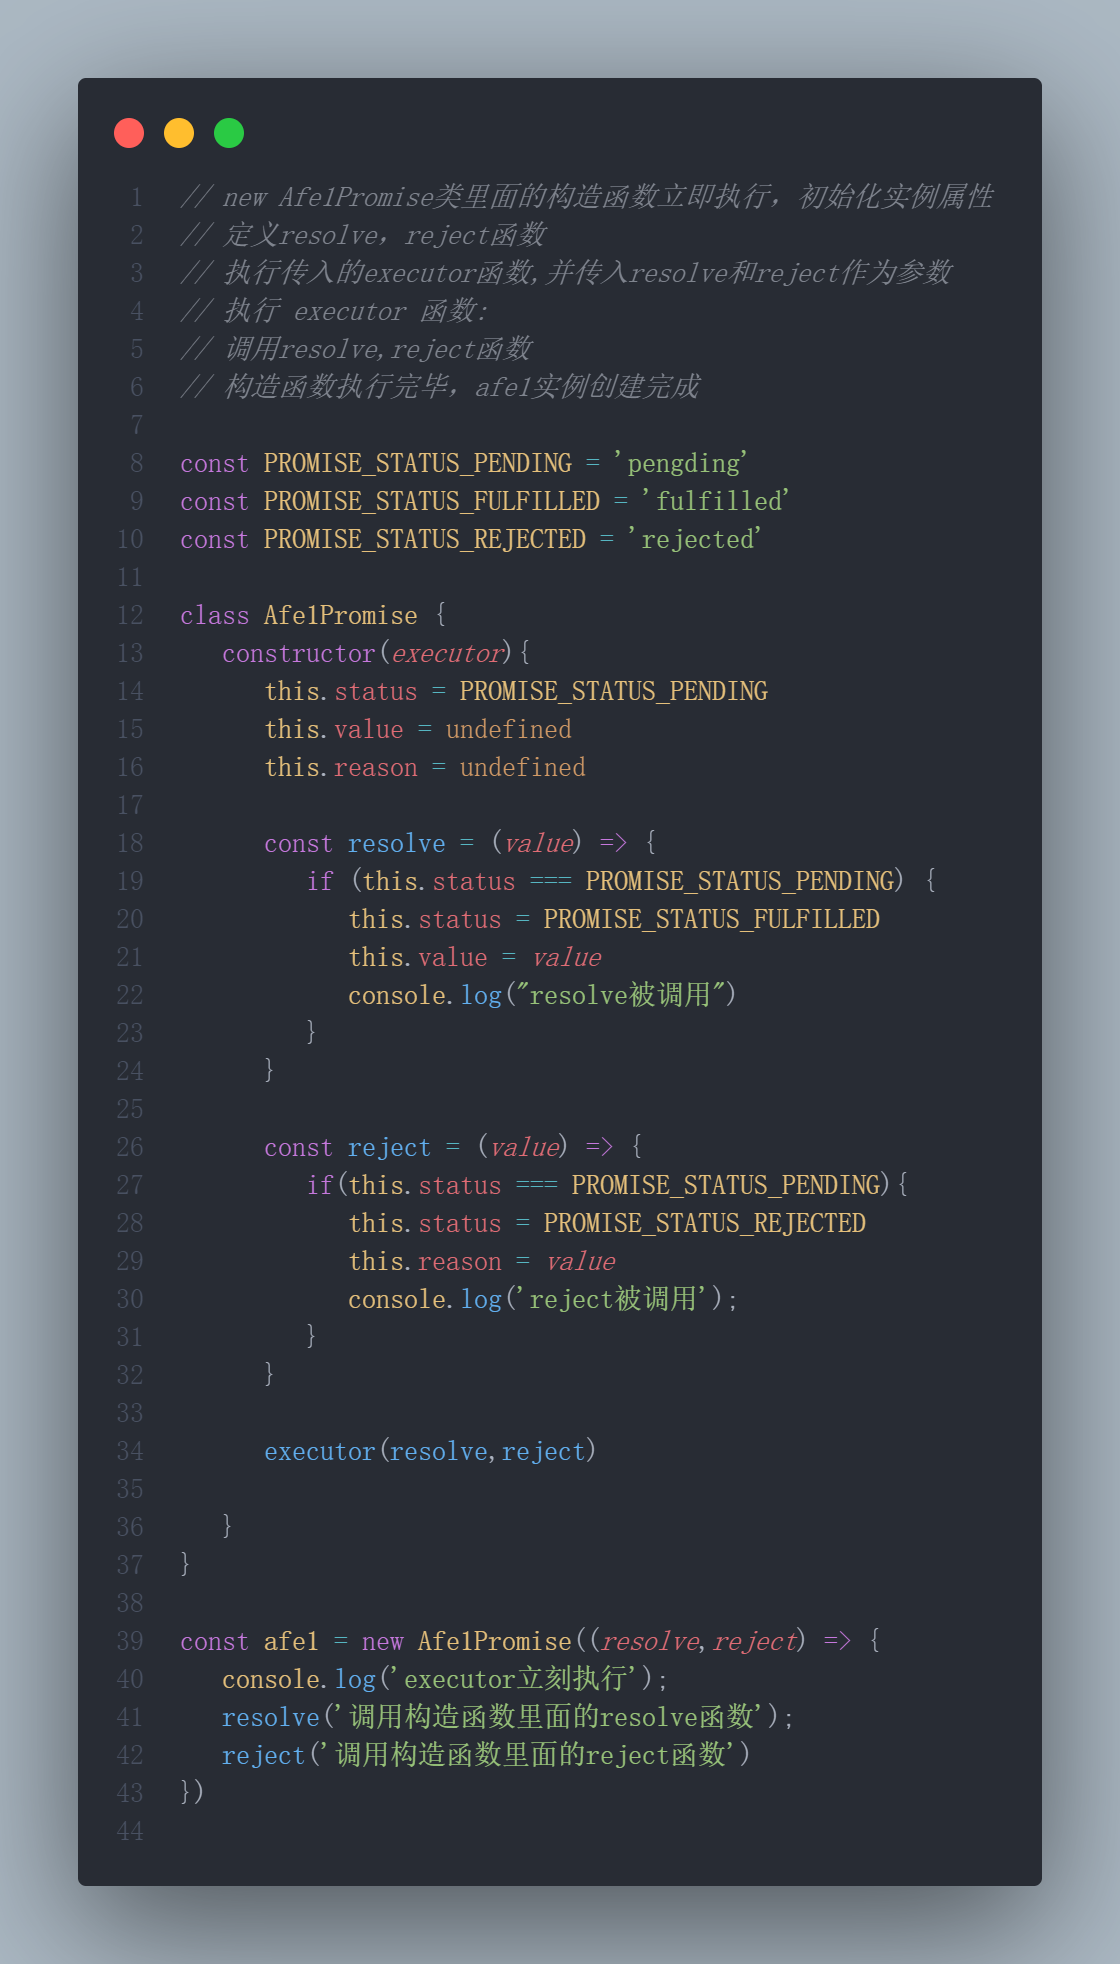
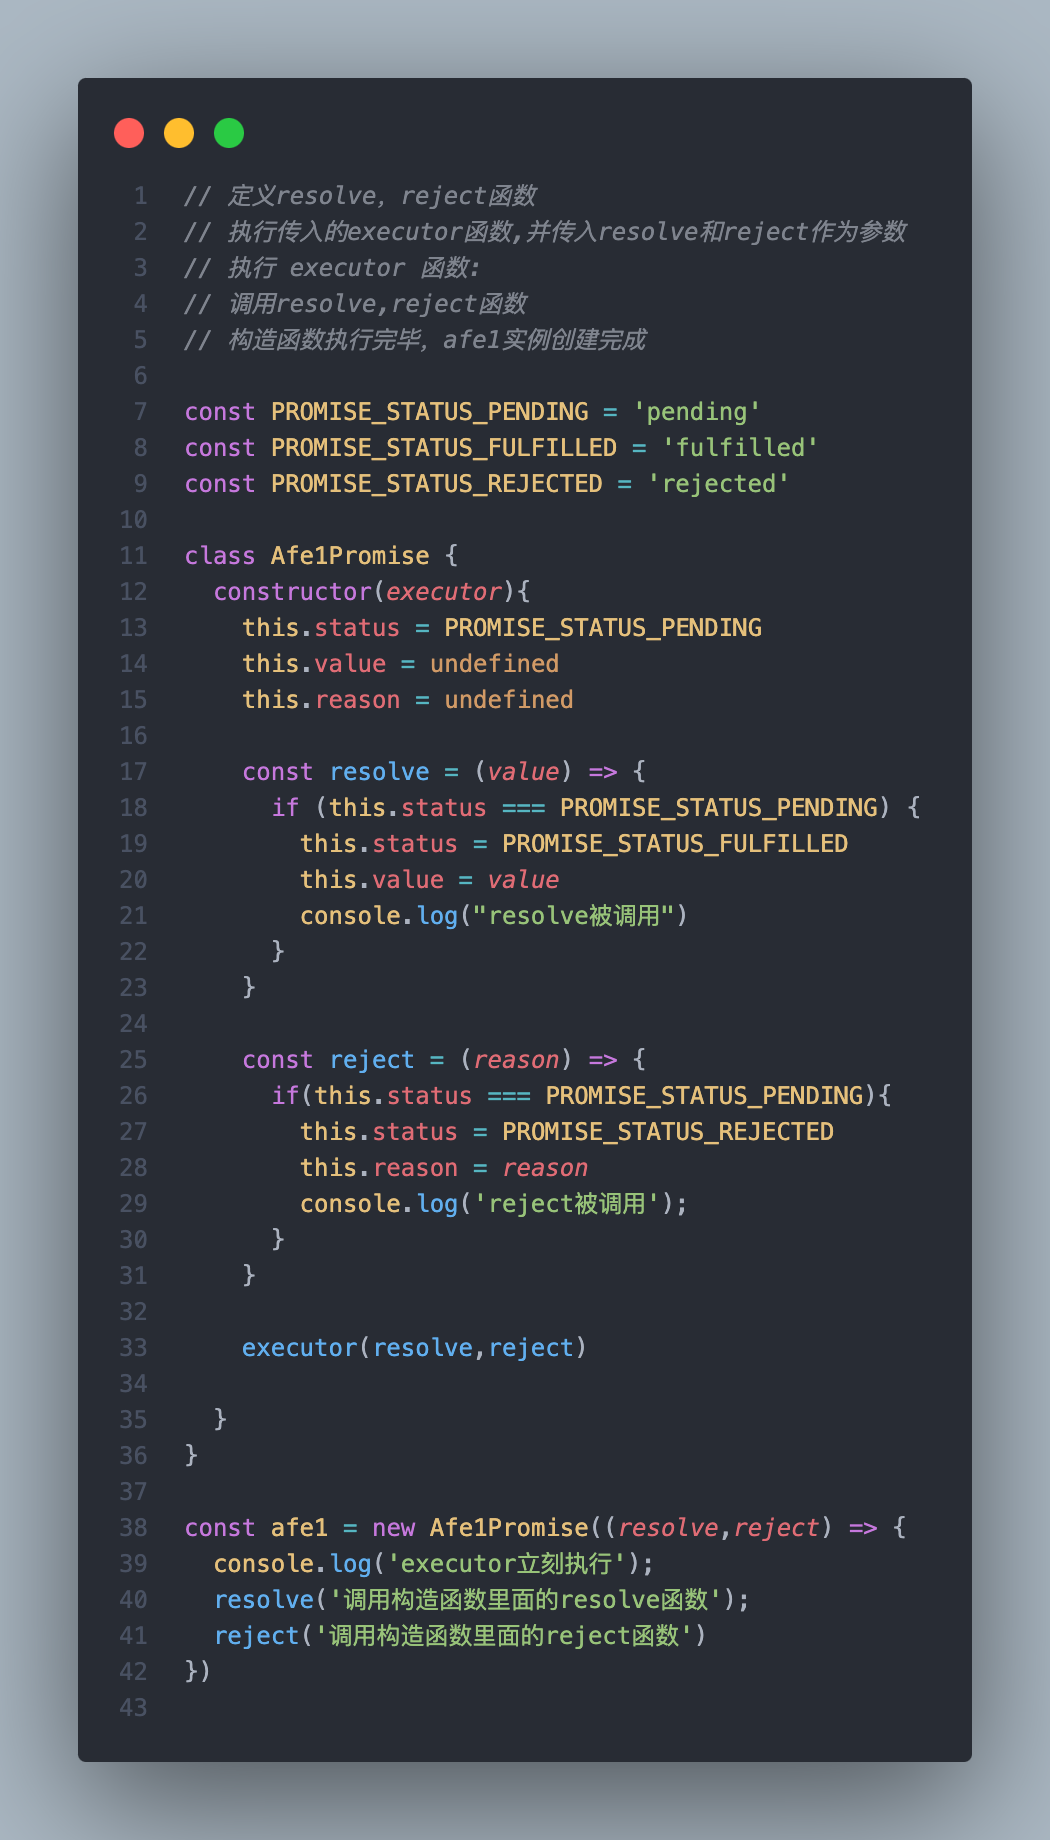
feat: promise

diff --git a/postsCode/promise/3.js b/postsCode/promise/3.js
@@ -1,0 +1,81 @@
+const PROMISE_STATUS_PENDING = 'pending'
+const PROMISE_STATUS_FULFILLED = 'fulfilled'
+const PROMISE_STATUS_REJECTED = 'rejected'
+
+class Afe1Promise {
+  constructor(executor){
+    this.status = PROMISE_STATUS_PENDING
+    this.value = undefined
+    this.reason = undefined
+    this.onFulfilledFns = []
+    this.onRejectedFns = []
+
+    const resolve = (value) => {
+      if (this.status === PROMISE_STATUS_PENDING) {
+        queueMicrotask(() => {
+          if (this.status !== PROMISE_STATUS_PENDING) return
+          this.status = PROMISE_STATUS_FULFILLED
+          this.value = value
+          this.onFulfilledFns.forEach((fn) => {
+            fn(this.value)
+          })
+        })
+      }
+    }
+
+    const reject = (reason) => {
+      if(this.status === PROMISE_STATUS_PENDING){
+        queueMicrotask(() => {
+          if (this.status !== PROMISE_STATUS_PENDING) return
+          this.status = PROMISE_STATUS_REJECTED
+          this.reason = reason
+          this.onRejectedFns.forEach((fn) => {
+            fn(this.reason)
+          })
+        })
+      }
+    }
+
+    executor(resolve,reject)
+
+  }
+
+  then(onFulfilled,onRejected){
+    if(this.status === PROMISE_STATUS_FULFILLED && onFulfilled){
+      onFulfilled(this.value)
+    }
+    if(this.status === PROMISE_STATUS_REJECTED && onRejected){
+      onRejected(this.reason)
+    }
+    if(this.status === PROMISE_STATUS_PENDING){
+      this.onFulfilledFns.push(onFulfilled)
+      this.onRejectedFns.push(onRejected)
+    }
+  }
+}
+
+const afe1 = new Afe1Promise((resolve,reject) => {
+  console.log('executor立刻执行');
+  resolve('调用构造函数里面的resolve函数');
+})
+
+
+afe1.then((res) => {
+  console.log('then回调函数执行了1');
+  console.log(res);
+})
+
+afe1.then((res) => {
+  console.log('then回调函数执行了2');
+  console.log(res);
+})
+
+// 在确定Promise状态之后, 再次调用then
+setTimeout(() => {
+  afe1.then(res => {
+    console.log("res3:", res)
+  }, err => {
+    console.log("err3:", err)
+  })
+}, 1000)
+

diff --git a/postsCode/promise/2.js b/postsCode/promise/2.js
@@ -1,11 +1,4 @@
-// new Afe1Promise类里面的构造函数立即执行，初始化实例属性
-// 定义resolve，reject函数
-// 执行传入的executor函数,并传入resolve和reject作为参数
-// 执行 executor 函数:
-// 调用resolve,reject函数
-// 构造函数执行完毕，afe1实例创建完成
-
-const PROMISE_STATUS_PENDING = 'pengding'
+const PROMISE_STATUS_PENDING = 'pending'
 const PROMISE_STATUS_FULFILLED = 'fulfilled'
 const PROMISE_STATUS_REJECTED = 'rejected'
 
@@ -18,26 +11,40 @@ class Afe1Promise {
     const resolve = (value) => {
       if (this.status === PROMISE_STATUS_PENDING) {
         this.status = PROMISE_STATUS_FULFILLED
-        this.value = value
-        console.log("resolve被调用")
+        queueMicrotask(() => {
+          this.value = value
+          this.onFulfilled(this.value)
+        })
       }
     }
 
-    const reject = (value) => {
+    const reject = (reason) => {
       if(this.status === PROMISE_STATUS_PENDING){
         this.status = PROMISE_STATUS_REJECTED
-        this.reason = value
-        console.log('reject被调用');
+        queueMicrotask(() => {
+          this.reason = reason
+          this.onRejected(this.reason)
+        })
       }
     }
 
     executor(resolve,reject)
 
   }
+
+  then(onFulfilled,onRejected){
+    this.onFulfilled = onFulfilled
+    this.onRejected = onRejected
+  }
 }
 
 const afe1 = new Afe1Promise((resolve,reject) => {
   console.log('executor立刻执行');
   resolve('调用构造函数里面的resolve函数');
-  reject('调用构造函数里面的reject函数')
+})
+
+
+afe1.then((res) => {
+  console.log('then回调函数执行了');
+  console.log(res);
 })

diff --git a/postsCode/promise/1.js b/postsCode/promise/1.js
@@ -1,4 +1,10 @@
-const PROMISE_STATUS_PENDING = 'pengding'
+// 定义resolve，reject函数
+// 执行传入的executor函数,并传入resolve和reject作为参数
+// 执行 executor 函数:
+// 调用resolve,reject函数
+// 构造函数执行完毕，afe1实例创建完成
+
+const PROMISE_STATUS_PENDING = 'pending'
 const PROMISE_STATUS_FULFILLED = 'fulfilled'
 const PROMISE_STATUS_REJECTED = 'rejected'
 
@@ -11,40 +17,26 @@ class Afe1Promise {
     const resolve = (value) => {
       if (this.status === PROMISE_STATUS_PENDING) {
         this.status = PROMISE_STATUS_FULFILLED
-        queueMicrotask(() => {
-          this.value = value
-          // this.onFulfilled(this.value)
-        })
+        this.value = value
+        console.log("resolve被调用")
       }
     }
 
-    const reject = (value) => {
+    const reject = (reason) => {
       if(this.status === PROMISE_STATUS_PENDING){
         this.status = PROMISE_STATUS_REJECTED
-        queueMicrotask(() => {
-          this.reason = value
-          // this.onRejected(this.reason)
-        })
+        this.reason = reason
+        console.log('reject被调用');
       }
     }
 
     executor(resolve,reject)
 
   }
-
-  // then(onFulfilled,onRejected){
-  //   this.onFulfilled = onFulfilled
-  //   this.onRejected = onRejected
-  // }
 }
 
 const afe1 = new Afe1Promise((resolve,reject) => {
   console.log('executor立刻执行');
   resolve('调用构造函数里面的resolve函数');
+  reject('调用构造函数里面的reject函数')
 })
-
-
-// afe1.then((res) => {
-//   console.log('then回调函数执行了');
-//   console.log(res);
-// })
